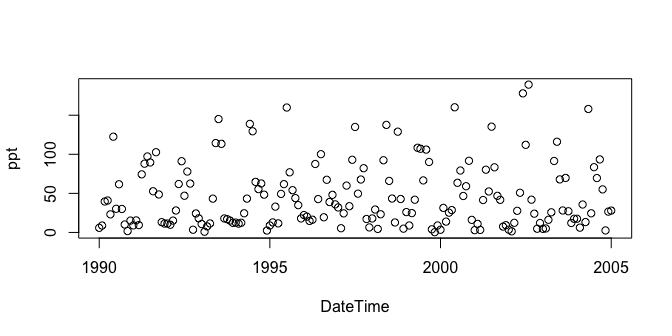
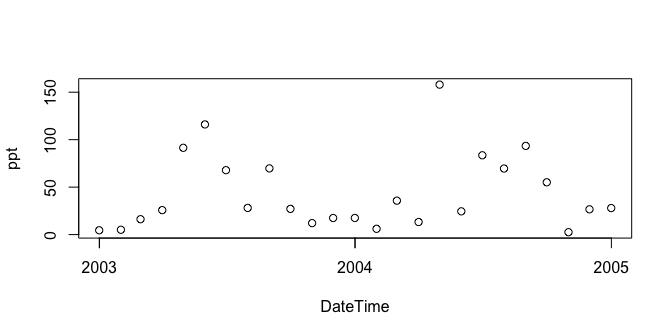
clean up for the UTF-8 message from httr

diff --git a/README.md b/README.md
@@ -1,4 +1,4 @@
-`geoknife` package version 1.1.3
+`geoknife` package version 1.1.4
 ================================
 
 [![Build status](https://ci.appveyor.com/api/projects/status/0iacmg82mp50426o/branch/master)](https://ci.appveyor.com/project/jread-usgs/geoknife/branch/master) [![Build Status](https://travis-ci.org/USGS-R/geoknife.svg)](https://travis-ci.org/USGS-R/geoknife) [![Coverage Status](https://coveralls.io/repos/USGS-R/geoknife/badge.svg)](https://coveralls.io/r/USGS-R/geoknife) [![Download Count](http://cranlogs.r-pkg.org/badges/geoknife)](https://cran.r-project.org/package=geoknife)
@@ -71,7 +71,7 @@ fabric <- webdata(list(
             url = 'http://cida.usgs.gov/thredds/dodsC/prism',
             variables = 'ppt'))
 # modify the times field:
-times(fabric) <- as.POSIXct(c('1990-01-01','2005-01-01'))
+times(fabric) <- as.POSIXct(c('2003-01-01','2005-01-01'))
 ```
 
 ##### create the processing job that will carry out the subsetting/summarization task
@@ -87,7 +87,7 @@ check(job)
     ## [1] "Process successful"
     ## 
     ## $URL
-    ## [1] "http://cida.usgs.gov:80/gdp/process/RetrieveResultServlet?id=6eb2b033-ca7b-4366-8bf7-21d66774d585OUTPUT"
+    ## [1] "http://cida.usgs.gov:80/gdp/process/RetrieveResultServlet?id=0ac86798-7a2f-47c8-b153-3673e77e3e80OUTPUT"
     ## 
     ## $statusType
     ## [1] "ProcessSucceeded"
@@ -107,8 +107,9 @@ data <- result(job)
 plot(data[,1:2], ylab = variables(fabric))
 ```
 
-![](README_files/figure-markdown_github/unnamed-chunk-7-1.png)
- \#\#\#\#\#use an email to listen for process completion
+![](README_files/figure-markdown_github/unnamed-chunk-7-1.png)<!-- -->
+
+##### use an email to listen for process completion
 
 ``` r
 job <- geoknife(webgeom('state::New Hampshire'), fabric = 'prism', email = 'fake.email@gmail.com')
